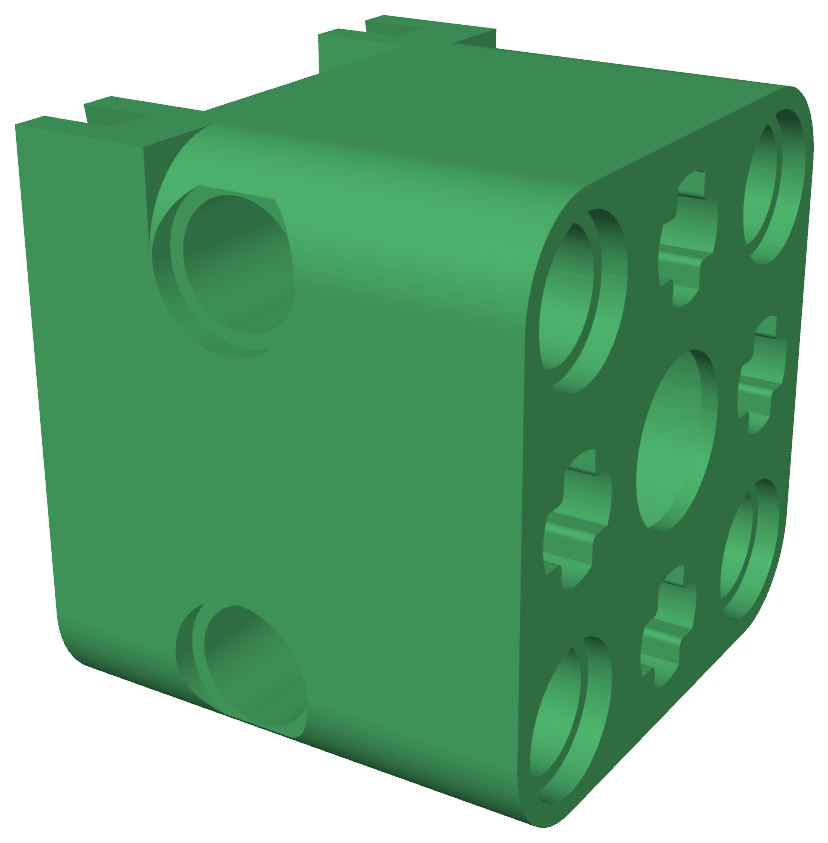
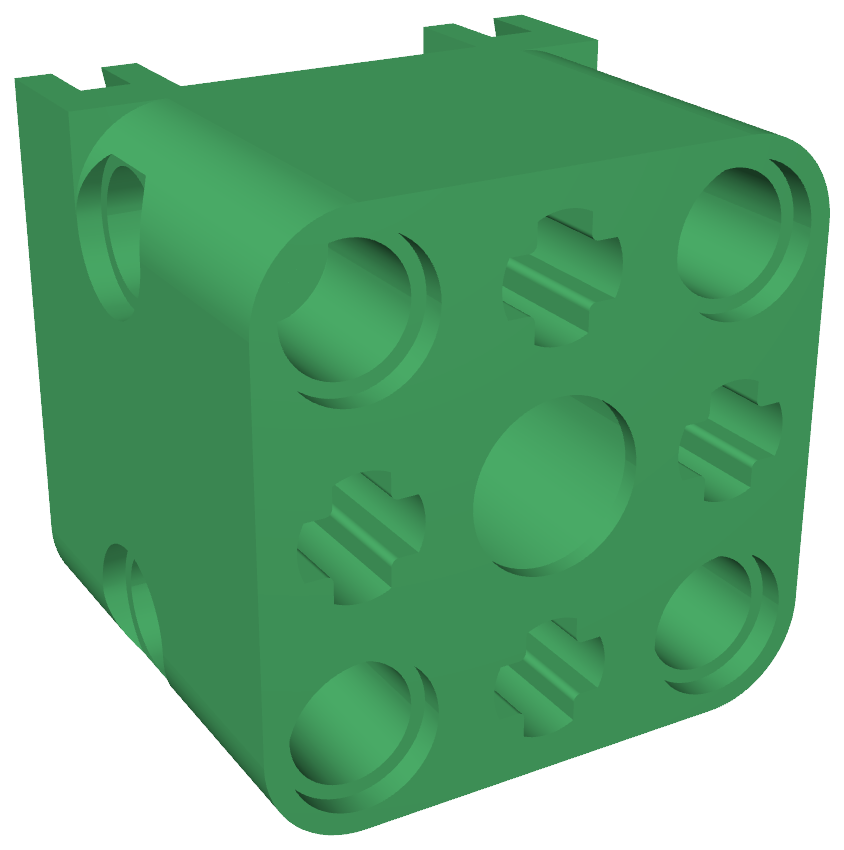
docs(readme): swap beam->L-liftarm gallery sample; canonical-3/4 renders; link thumbnails to interactive STLs (#64)
- Gallery: replace the straight-beam sample with the new LegoTechnicLLiftarm (3x5);
  the hinge sample now shows its 2 countersunk M3 mount holes per leaf.
- Re-render all four thumbnails at the research-backed canonical 3/4 view
  (~30 deg azimuth / ~25 deg elevation) — un-flattens the gear vs a front-on view
  (canonical-perspective literature: oblique ~30 deg views recognize best).
- Wrap each thumbnail in a link to a committed per-part STL so clicking opens
  GitHub's native interactive 3D viewer (grab-rotate/zoom). gitignore exception so
  assets/*.stl tracks; STLs are ~0.2-0.4 MB each (well under the 10 MB cap).

diff --git a/README.md b/README.md
@@ -23,25 +23,27 @@ And it's designed to be driven by humans *and* LLM agents.
 <table>
   <tr>
     <td align="center" width="50%">
-      <img src="assets/sample-gear.png" alt="Parametric spur gear" width="300"><br>
+      <a href="assets/sample-gear.stl" title="Click to rotate in 3D"><img src="assets/sample-gear.png" alt="Parametric spur gear" width="290"></a><br>
       <sub><b>SpurGear</b> · <code>module=1.5, teeth=18</code></sub>
     </td>
     <td align="center" width="50%">
-      <img src="assets/sample-beam.png" alt="Lego Technic beam" width="300"><br>
-      <sub><b>LegoTechnicBeam</b> · <code>length_in_studs=5</code></sub>
+      <a href="assets/sample-lliftarm.stl" title="Click to rotate in 3D"><img src="assets/sample-lliftarm.png" alt="Lego Technic L-liftarm (3×5)" width="200"></a><br>
+      <sub><b>LegoTechnicLLiftarm</b> · 3×5 Technic L-liftarm</sub>
     </td>
   </tr>
   <tr>
     <td align="center" width="50%">
-      <img src="assets/sample-servo.png" alt="SG90 servo to Lego Technic adapter" width="300"><br>
+      <a href="assets/sample-servo.stl" title="Click to rotate in 3D"><img src="assets/sample-servo.png" alt="SG90 servo to Lego Technic adapter" width="290"></a><br>
       <sub><b>ServoMountBase</b> · SG90 servo → Lego Technic adapter</sub>
     </td>
     <td align="center" width="50%">
-      <img src="assets/sample-hinge.png" alt="Print-in-place hinge, two interleaved leaves" width="200"><br>
-      <sub><b>PrintInPlaceHinge</b> · <code>.leaf_a</code> / <code>.leaf_b</code>, prints assembled</sub>
+      <a href="assets/sample-hinge.stl" title="Click to rotate in 3D"><img src="assets/sample-hinge.png" alt="Print-in-place hinge with countersunk M3 mount holes" width="250"></a><br>
+      <sub><b>PrintInPlaceHinge</b> · 2 countersunk M3 holes / leaf</sub>
     </td>
   </tr>
 </table>
+
+<p align="center"><sub>🔄 <b>Click any sample</b> to spin the real model in GitHub's interactive 3D viewer.</sub></p>
 
 Each part is a few lines of Python. The geometry is a function of the parameters,
 so a part is never a static shape — it's a generator: